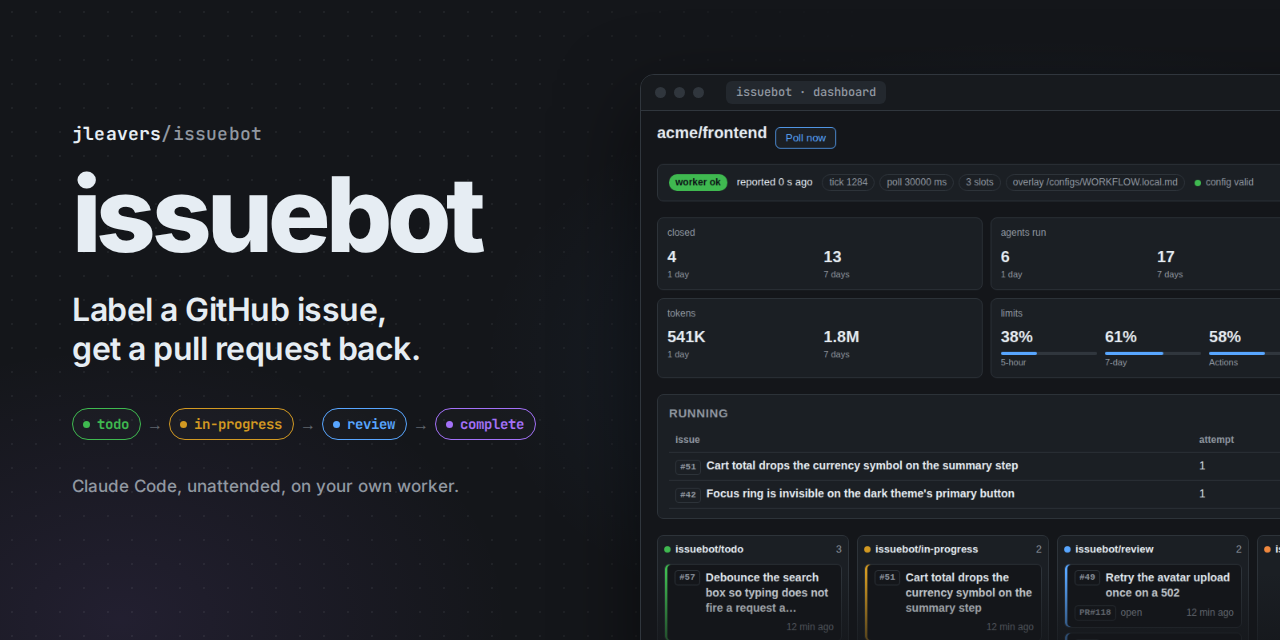
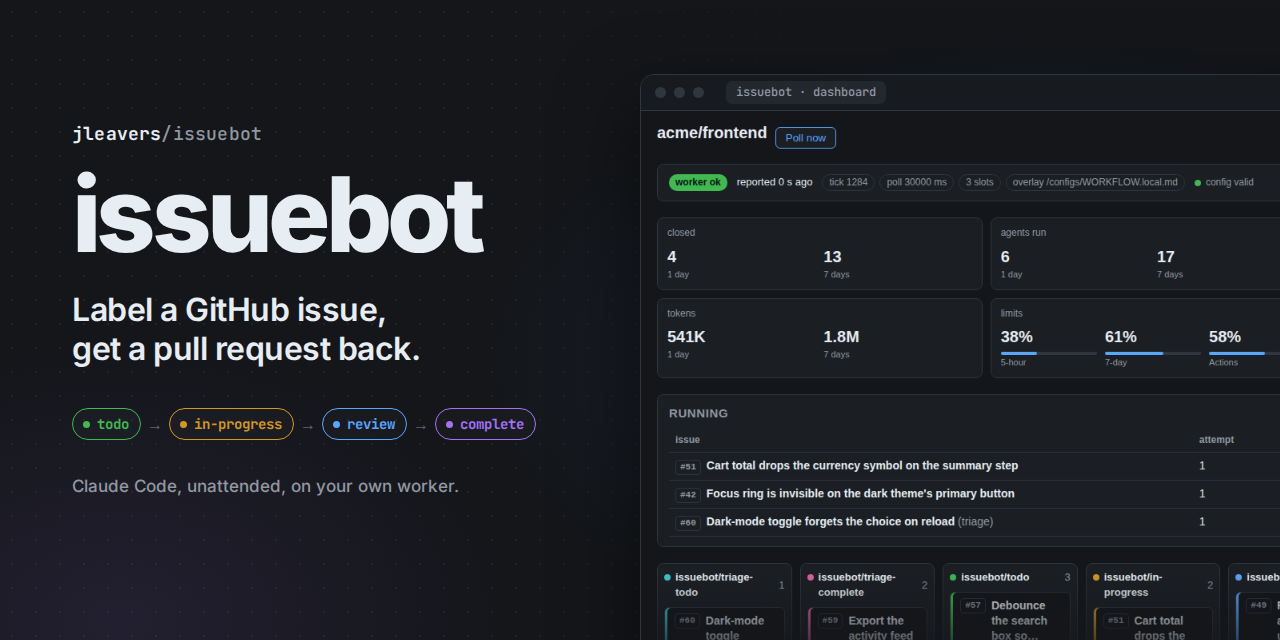
docs: the Triage and Triaged columns, and the README's images regenerated
Claude-Session: https://claude.ai/code/session_019agwxcWUZKkqVuL73ZfE76

Changed region(s): [[0.5, 0.8125, 1.0, 1.0]]

diff --git a/tools/screenshots/seed.py b/tools/screenshots/seed.py
@@ -10,9 +10,10 @@ Two things are seeded, and they are separate because they run a different number
 ``history``  thirty days of closed issues and finished runs, so the dashboard's two charts and
              its 1-day and 7-day tiles carry figures rather than zeroes. Run once; running it
              again would multiply every count behind the tiles.
-``stage N``  the board with issue #42 in the Nth column of its journey (1 todo, 2 in-progress,
-             3 review, 4 complete). Run once per frame of the journey animation; it upserts by
-             issue number, so a later stage replaces the earlier one rather than adding to it.
+``stage N``  the board with issue #42 in the Nth stage of its journey (1 triage-todo,
+             2 triage-complete, 3 todo, 4 in-progress, 5 review, 6 complete). Run once per
+             frame of the journey animation; it upserts by issue number, so a later stage
+             replaces the earlier one rather than adding to it.
 
 ``DATABASE_URL`` must point at a throwaway. See ``README.md`` beside this file.
 """
@@ -64,6 +65,10 @@ ARCHIVE_TITLES = (
 
 JOURNEY_TITLE = "Focus ring is invisible on the dark theme's primary button"
 
+# The stage the hero image is taken at: #42 in progress, so two agents are running. The
+# capture.py's HERO_STAGE must match it.
+HERO_STAGE = 4
+
 
 def _issue(
     number: int,
@@ -113,6 +118,19 @@ def _issue(
 
 # The standing board: every column but the one issue #42 moves through.
 BOARD = (
+    _issue(
+        60,
+        "Dark-mode toggle forgets the choice on reload",
+        None,
+        markers=(LABELS.triage_todo,),
+    ),
+    _issue(
+        59,
+        "Export the activity feed as CSV",
+        None,
+        markers=(LABELS.triage_complete,),
+    ),
+    _issue(58, "Checkout redesign", None, markers=(LABELS.triage_complete,)),
     _issue(57, "Debounce the search box so typing does not fire a request a keystroke", "todo"),
     _issue(56, "Add a skip-to-content link for keyboard users", "todo"),
     _issue(55, "Locale-aware date formatting in the activity feed", "todo"),
@@ -158,10 +176,12 @@ BOARD = (
 )
 
 STAGES = {
-    1: _issue(42, JOURNEY_TITLE, "todo", age_h=4),
-    2: _issue(42, JOURNEY_TITLE, "in_progress", age_h=4),
-    3: _issue(42, JOURNEY_TITLE, "review", pr=121, age_h=4),
-    4: _issue(
+    1: _issue(42, JOURNEY_TITLE, None, age_h=4, markers=(LABELS.triage_todo,)),
+    2: _issue(42, JOURNEY_TITLE, None, age_h=4, markers=(LABELS.triage_complete,)),
+    3: _issue(42, JOURNEY_TITLE, "todo", age_h=4, markers=(LABELS.triage_complete,)),
+    4: _issue(42, JOURNEY_TITLE, "in_progress", age_h=4, markers=(LABELS.triage_complete,)),
+    5: _issue(42, JOURNEY_TITLE, "review", pr=121, age_h=4, markers=(LABELS.triage_complete,)),
+    6: _issue(
         42,
         JOURNEY_TITLE,
         "complete",
@@ -179,16 +199,19 @@ def _snapshot(running: int) -> RuntimeSnapshot:
     from issuebot.agent.runner import RateLimits, RateLimitWindow
 
     candidates = (
-        (51, 7, 2, "Cart total drops the currency symbol on the summary step"),
-        (42, 3, 1, JOURNEY_TITLE),
+        (51, 7, 2, "Cart total drops the currency symbol on the summary step", "work"),
+        (42, 3, 1, JOURNEY_TITLE, "work"),
     )
+    # A triage run is always in flight, so the hero's Running panel shows `(triage)`.
+    triage = (60, 1, 1, "Dark-mode toggle forgets the choice on reload", "triage")
     rows = tuple(
         RunningRow(
             issue_number=number,
             identifier=f"{REPO}#{number}",
             title=title,
             url=f"https://github.com/{REPO}/issues/{number}",
-            state="in_progress",
+            state=None if kind == "triage" else "in_progress",
+            kind=kind,
             attempt=1,
             rework=False,
             resumed=False,
@@ -200,7 +223,7 @@ def _snapshot(running: int) -> RuntimeSnapshot:
             turns=turns,
             stop_cause=None,
         )
-        for number, minutes, turns, title in candidates[:running]
+        for number, minutes, turns, title, kind in (*candidates[:running], triage)
     )
     return RuntimeSnapshot(
         at=NOW,
@@ -351,7 +374,7 @@ async def main(command: str) -> None:
         stage = int(command)
         board = [*BOARD, STAGES[stage]]
         await store.upsert_issues([IssueSnapshot(issue=i, seen_at=NOW) for i in board])
-        snapshot = _snapshot(running=2 if stage == 2 else 1)
+        snapshot = _snapshot(running=2 if stage == HERO_STAGE else 1)
         await store.write_snapshot(snapshot.at, snapshot.to_dict())
         print(f"stage {stage}: issue #42 in {STAGES[stage].state}")
     finally:

diff --git a/tools/screenshots/capture.py b/tools/screenshots/capture.py
@@ -30,12 +30,16 @@ IMAGES = HERE.parent.parent / "docs" / "images"
 FONTS = Path("/usr/share/fonts/truetype/dejavu")
 
 CAPTIONS = (
-    "1.  someone labels the issue  issuebot/todo",
-    "2.  the worker claims it, clones, and runs  claude -p",
-    "3.  it pushes a branch, opens a PR, and asks for review",
-    "4.  you merge; the issue closes and lands in  issuebot/complete",
+    "1.  a maintainer opens an issue; auto-triage labels it  issuebot/triage-todo",
+    "2.  a read-only session sizes it and files its verdict:  fits",
+    "3.  you label it  issuebot/todo",
+    "4.  the worker claims it, clones, and runs  claude -p",
+    "5.  it pushes a branch, opens a PR, and asks for review",
+    "6.  you merge; the issue closes and lands in  issuebot/complete",
 )
-HOLD_MS = (2300, 2300, 2300, 3000)
+# Must match seed.HERO_STAGE: capture.py runs without issuebot's imports, so it cannot read it.
+HERO_STAGE = 4
+HOLD_MS = (2300,) * 5 + (3000,)
 CAPTION_BAR = 52
 
 # The caption strip is drawn rather than rendered, so its colours have to be the ones the
@@ -111,7 +115,7 @@ def main() -> int:
 
         # The hero, with issue #42 mid-flight so the board is not half empty.
         subprocess.run(
-            [sys.executable, str(HERE / "seed.py"), "2"],
+            [sys.executable, str(HERE / "seed.py"), str(HERO_STAGE)],
             check=True,
             env={"DATABASE_URL": args.dsn, "PATH": "/usr/bin:/bin"},
             capture_output=True,
@@ -121,7 +125,7 @@ def main() -> int:
         page.close()
 
         boards: list[Image.Image] = []
-        for stage in (1, 2, 3, 4):
+        for stage in range(1, 7):
             subprocess.run(
                 [sys.executable, str(HERE / "seed.py"), str(stage)],
                 check=True,
@@ -160,7 +164,7 @@ def main() -> int:
         optimize=True,
         disposal=2,
     )
-    for stage in (1, 2, 3, 4):
+    for stage in range(1, 7):
         (HERE / f".frame-{stage}.png").unlink(missing_ok=True)
 
     # It reports its own size, and its exit status is the verdict on it.

diff --git a/docs/package-layout.md b/docs/package-layout.md
@@ -166,7 +166,7 @@ carries the run's log directory. `AutoTriageState` is the first event with no is
 
 ## `issuebot.github`
 
-`fetch_issues_opened_since(since)` is auto-triage's one bounded read (33 a page).
+`fetch_issues_opened_since(since)` is auto-triage's one bounded read (33 a page), and `fetch_issues_with_any_label(labels)` the board's, one GraphQL read of every open issue carrying any of the labels (GitHub ORs them).
 
 `StateLabel` roles, the transition table, `model_label_style` and
 `marker_label_styles` (`state.py`; `classify_closed(issue, labels)` returns `complete` for a
@@ -1065,6 +1065,8 @@ widening.
 
 ## `issuebot.orchestrator`
 
+`_observe_triage_track` is the once-a-poll read of the two triage labels for the store, made in `_fetch_issues` and kept out of the GitHub dispatch hold (#88), which is the board poll's.
+
 one asyncio task owns the schedule. `admission.py` (pure, #112) is
 the one gate every claim goes through: `admit(AdmissionRequest)` answers, in the order the
 preconditions outrank each other -- shutdown, the `Hold` in force, the free slots, whether
@@ -1479,8 +1481,8 @@ warning or a limit hit (chosen by `hit`), times in UTC.
 
 the observability store, imported by `cli` and `web`; imports `config`,
 `events`, `github`, `log` and `agent.turnlog`. `migrations/NNNN_name.sql` (`0001_initial`,
-`0002_run_turns`, `0003_repos`, `0004_run_turns_repo`, `0005_actions_minutes`, `0006_claude_limit_alerts`, `0007_run_kind`;
-schema version 7) applied by
+`0002_run_turns`, `0003_repos`, `0004_run_turns_repo`, `0005_actions_minutes`, `0006_claude_limit_alerts`, `0007_run_kind`, `0008_triage_track`;
+schema version 8) applied by
 `migrate.py` in one transaction
 under an advisory lock (`schema_migrations` bookkeeping; a recorded version newer than the
 files is an error). `0003_repos` adds a `repos` registry (one row per worker: its labels,
@@ -1512,12 +1514,12 @@ appends to `events`, upserts `runs` on `run_started`/`run_ended` and inserts the
 turns into `run_turns` in the `run_ended` transaction (idempotent per `(repo, run_id,
 turn_number)`),
 or updates `issues` on `state_changed`, `issue_completed`, `issue_cancelled`; `upsert_issues`;
-`write_snapshot`), every write stamped with its `repo` by `_stamp`, which *forces* the
+`write_snapshot`; `issues.triage` is the triage track, set by `upsert_issues` and by `TRIAGE_CHANGED`, and cleared on open rows missing from a complete read by `reconcile_triage_track`), every write stamped with its `repo` by `_stamp`, which *forces* the
 store's over anything a row carries and is the only way a row is built, `INSERT_TURN`
 included (#111); every `issues` write is also guarded
 by `seen_at`, so write order never matters. `sink.py`:
 `PostgresSink` (`handle` enqueues events, cap 1000; `record_issues` merges polled snapshots
-into one pending batch; `record_snapshot` keeps the latest; one drain task writes, reconnects
+into one pending batch; `record_snapshot` keeps the latest; `record_triage_track` records the triage read's snapshots, then queues that reconcile; one drain task writes, reconnects
 with backoff and retries the item in flight; a `run_ended` item's turn files are captured
 once, in a thread, before its first write attempt (`db_turns_captured`,
 `db_turns_capture_failed`), and then its `log_dir` is scrubbed (`scrubber=`, the
@@ -1576,6 +1578,8 @@ the triage labels (`_on_the_triage_track`), though the `events` row is still wri
 `PARENT_RECORDS` returns each parent's latest `parent_review_state` for that seed.
 
 ## `issuebot.web`
+
+The columns, counts, list page and `/stats` all iterate `queries.BOARD_COLUMNS` (seven keys, in board order), and `running_entry` carries the run `kind` that Running marks `(triage)` or `(parent review)`.
 
 the dashboard, imported by `cli` only; imports `config`, `db`, `github`, `log` and
 `notifications`. `app.py`: `create_app(database, *, password, clock=, now=, actions=, claude_limits=)`

diff --git a/docs/dashboard.md b/docs/dashboard.md
@@ -6,11 +6,11 @@ the optional [GitHub Actions minutes](#github-actions-minutes) settings, and not
 workflow file, and no GitHub token but that billing one -- so it can run somewhere the worker
 does not.
 
-![The issuebot dashboard: a worker status line, six hero tiles, a table of running agents, the Kanban board of the five label columns, and thirty-day charts, in the dark theme. The data shown is fabricated.](images/dashboard.png)
+![The issuebot dashboard: a worker status line, six hero tiles, a table of running agents, the Kanban board, from Triage and Triaged through the five state labels, and thirty-day charts, in the dark theme. The data shown is fabricated.](images/dashboard.png)
 
 The dashboard (`issuebot web`; the compose `web` service publishes it on the host's loopback
 at `ISSUEBOT_WEB_PORT`, default 8080) serves every registered repository under
-`/r/<owner>/<name>/`: the Kanban of the five label columns, the hero stats, two 30-day
+`/r/<owner>/<name>/`: the Kanban of the label columns, the hero stats, two 30-day
 charts, the running agents and, per issue, its runs with the transcript of every captured
 turn (scrubbed before it is stored: issuebot's own token, keys and webhook, anything shaped
 like a credential, and the operator's home directory never reach the database). `/` redirects to the repository you last picked (a cookie) or the first registered
@@ -61,6 +61,24 @@ there and no `web_auth_rejected` beside it, because nothing was presented to rej
 credentials in the URL get round it, since `AuthSchemes` lists schemes rather than restricting
 the transport (that is `BasicAuthOverHttpEnabled`, a separate policy); another browser, or
 cookie-based authentication in front of the dashboard, is the way in.
+
+## The board
+
+The Kanban has seven columns, in this order: `issuebot/triage-todo`, `issuebot/triage-complete`,
+`issuebot/todo`, `issuebot/in-progress`, `issuebot/review`, `issuebot/rework` and
+`issuebot/complete`. The first two are the Triage and Triaged columns, left of Todo.
+
+- **Triage** holds the open issues labelled `triage-todo`, waiting or being triaged. **Triaged**
+  holds those labelled `triage-complete` that carry no state label, so their verdict is filed
+  and they wait for your `todo`. A split parent stays in Triaged until it closes.
+- A state label wins: an issue with `todo` and `triage-complete` is in Todo, so an issue is in
+  one column only and is counted once in the headers and in `/stats`.
+- A triage run, and a review of a split parent, show in Running marked `(triage)` or
+  `(parent review)`. The cards themselves carry no progress.
+- A worker with a store reads the triage track once a poll, for 1 GraphQL point a page of 33,
+  and an issue closed or unlabelled on GitHub leaves its column on the next poll.
+- `/stats`'s `by_state` and `/issues?state=` take `triage_todo` and `triage_complete`, and
+  `/state`'s `running[]` carries `kind`.
 
 ## The hero's six tiles
 

diff --git a/docs/superpowers/specs/2026-10-25-triage-design.md b/docs/superpowers/specs/2026-10-25-triage-design.md
@@ -1,7 +1,7 @@
 # Triage: issuebot sizes an issue before anyone starts it
 
 Date: 2026-10-25
-Status: approved 2026-10-25; phase 3 (the parent review) and phase 4 (auto-triage) built; phase 1 planned in
+Status: approved 2026-10-25; phase 3 (the parent review), phase 4 (auto-triage) and phase 5 (the dashboard) built; phase 1 planned in
 [`../plans/2026-10-25-triage-phase-1.md`](../plans/2026-10-25-triage-phase-1.md), with the
 refinements found while planning folded in below (sections 1, 4 and 7, and "Phases")
 
@@ -493,6 +493,35 @@ Decided while planning phase 4:
   sits in Triaged until it closes, since it never gets `todo` itself. The board is built from
   the store, so the worker records the triage track there as it does the state labels. The
   README's two images are regenerated with the new columns (`tools/screenshots/`).
+
+Decided while planning phase 5:
+
+1. The triage track is its own column, `issues.triage` (migration 0008), and does not reuse
+   `state`, which every other reader takes to mean a state label. Its values are the label
+   roles `triage_todo` and `triage_complete`, computed against the configured names,
+   case-insensitively; an issue carrying both is `triage_todo`.
+2. A state label wins: the board's column is `coalesce(state, triage)`, so an issue is drawn
+   and counted once.
+3. The column keys are `triage_todo` and `triage_complete`, each headed with the label's own
+   name; the docs call them Triage and Triaged.
+4. One read per poll, only with a store: `fetch_issues_with_any_label` over both triage labels,
+   in `_fetch_issues`, so the held tick keeps the board fresh. 1 point a poll, 120 an hour.
+5. The read is a complete set, so the store clears `triage` on open rows missing from it,
+   guarded by `seen_at`. A failed or over-ceiling read reconciles nothing, logs
+   `triage_track_fetch_failed` and is not counted towards the GitHub hold (#88).
+6. A published move sets `triage` only when it lands on a triage label; any other move leaves
+   it to the same tick's reconcile.
+7. A running triage shows in the Running panel, marked `(triage)` or `(parent review)`; cards
+   do not change. `running_entry` gains `kind`, an additive change to `/state`.
+8. The issue page shows the triage label's pill when the issue has no state label.
+9. The two columns get new hues (teal and magenta), not the labels' own hexes, which are
+   1.1:1 and 1.5:1 on white and fail `tests/test_web_theme.py`.
+10. The board is seven columns, `repeat(7, minmax(150px, 1fr))`, and scrolls inside its own box
+    when the window is too narrow.
+11. The journey GIF starts in Triage and runs six stages; the standing board gains a Triage
+    card, two Triaged cards (one a split parent) and a running triage.
+12. `/issues?state=` and `/stats`'s `by_state` take the two new keys, since the column header's
+    "N more" link points at the list page. An additive API change.
 
 ### 8. Prompts
 

diff --git a/README.md b/README.md
@@ -13,7 +13,7 @@ It is a bespoke version of [openai/symphony](https://github.com/openai/symphony)
 Claude instead of Codex and GitHub instead of Linear, with Slack notifications and a web
 dashboard added.
 
-![The issuebot dashboard: a worker status line, six hero tiles (issues closed, agents run, cost, tokens, usage limits, activity), a table of running agents, the Kanban board of the five label columns, and thirty-day charts of issues closed and agent runs per day, in the dashboard's dark theme. The data shown is fabricated.](docs/images/dashboard.png)
+![The issuebot dashboard: a worker status line, six hero tiles (issues closed, agents run, cost, tokens, usage limits, activity), a table of running agents, the Kanban board, from Triage and Triaged through the five state labels, and thirty-day charts of issues closed and agent runs per day, in the dashboard's dark theme. The data shown is fabricated.](docs/images/dashboard.png)
 
 ## Contents
 
@@ -50,7 +50,7 @@ which `issuebot labels ensure` creates, and nothing else.
 | `issuebot/triage-complete` | the worker, after it filed a triage verdict; it stays beside a later state label |
 | `issuebot/operator-step` | the worker, on a sub-issue triage filed for you to do outside issuebot |
 
-![An issue moving across the dashboard's Kanban board: someone labels it issuebot/todo, the worker claims it into issuebot/in-progress, it opens a pull request and moves to issuebot/review, and on merge it lands in issuebot/complete.](docs/images/issue-journey.gif)
+![An issue moving across the dashboard's Kanban board: auto-triage labels it issuebot/triage-todo, a read-only session files its verdict and it moves to issuebot/triage-complete, you label it issuebot/todo, the worker claims it into issuebot/in-progress, it opens a pull request and moves to issuebot/review, and on merge it lands in issuebot/complete.](docs/images/issue-journey.gif)
 
 Merging the pull request closes the issue and the worker marks it `issuebot/complete`;
 labelling it `issuebot/rework` sends it back to the agent with your review comments. The worker
@@ -75,7 +75,9 @@ issue back is [Triage](docs/operations.md#triage).
 
 With `triage.auto` on, the worker labels each new issue a maintainer opens `issuebot/triage-todo`
 itself, once; it never labels the backlog. See
-[Auto-triage](docs/operations.md#auto-triage).
+[Auto-triage](docs/operations.md#auto-triage). On the [dashboard](docs/dashboard.md#the-board)
+an issue waiting for triage sits in a Triage column and one with a verdict in Triaged, left of
+Todo.
 
 **A split is reviewed once its steps have closed.** The worker reviews the parent by itself
 when every step has closed, in the same read-only session, and files the next batch (`next`),

diff --git a/docs/operations.md b/docs/operations.md
@@ -44,10 +44,11 @@ them from that repository's checkout.
 
 Tokens that belong to one GitHub account share one budget. GitHub allows 5,000 GraphQL
 points an hour *per account*, not per token, and the sessions' own `gh` calls and yours spend
-from it too. An idle worker at the default `polling.interval_ms` spends about 530 of them an
-hour -- one point per state label per poll while no label holds more than 33 open issues,
-plus the terminal sweep -- and a worker with sessions running up to 120 more, so one account
-carries seven to nine workers before the polls alone use it up. Past that, lengthen
+from it too. An idle worker at the default `polling.interval_ms` spends about 650 of them an
+hour -- one point per state label per poll, and one for the two triage labels together, while
+no label holds more than 33 open issues, plus the terminal sweep -- and a worker with sessions
+running up to 120 more, so one account
+carries six to seven workers before the polls alone use it up. Past that, lengthen
 `polling.interval_ms` in each checkout's `configs/WORKFLOW.local.md`, which reloads without a
 restart, or give the extra deployments a token from another account. What a spent budget
 looks like is under ["GitHub itself"](#github-itself).
